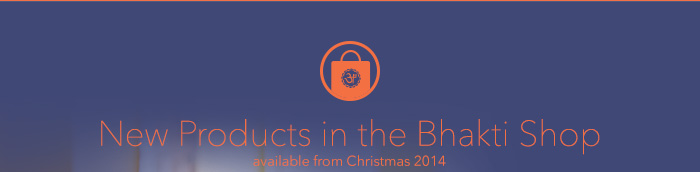
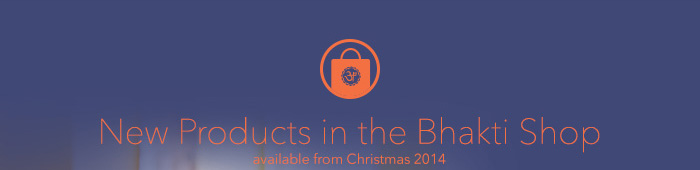
Removing orange strokes

diff --git a/bm-newsletter/index.html b/bm-newsletter/index.html
@@ -825,7 +825,7 @@
                               <table cellspacing="0" cellpadding="0" width="700" border="0" align="center" style="margin:0 auto">
                                 <tbody>
                                   <tr>
-                    								<td width="700" height="14" colspan="7" bgcolor="#2b3467" style="border-top-style:solid;border-top-color:#f37043;border-top-width:1px"></td>
+                    								<td width="700" height="14" colspan="7" bgcolor="#2b3467"></td>
                                   </tr>
                                   <tr>
                                     <td width="700" align="center" bgcolor="#2b3467">
